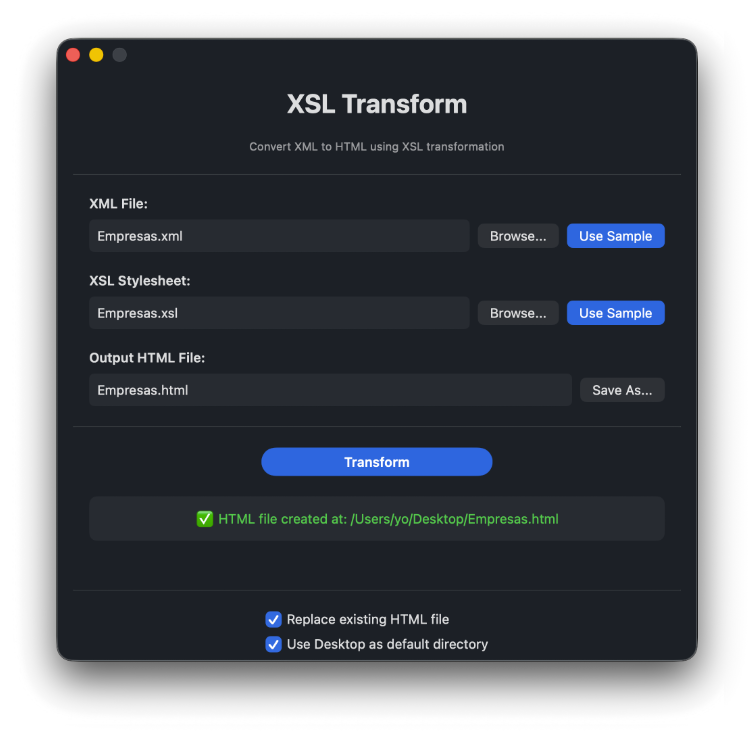
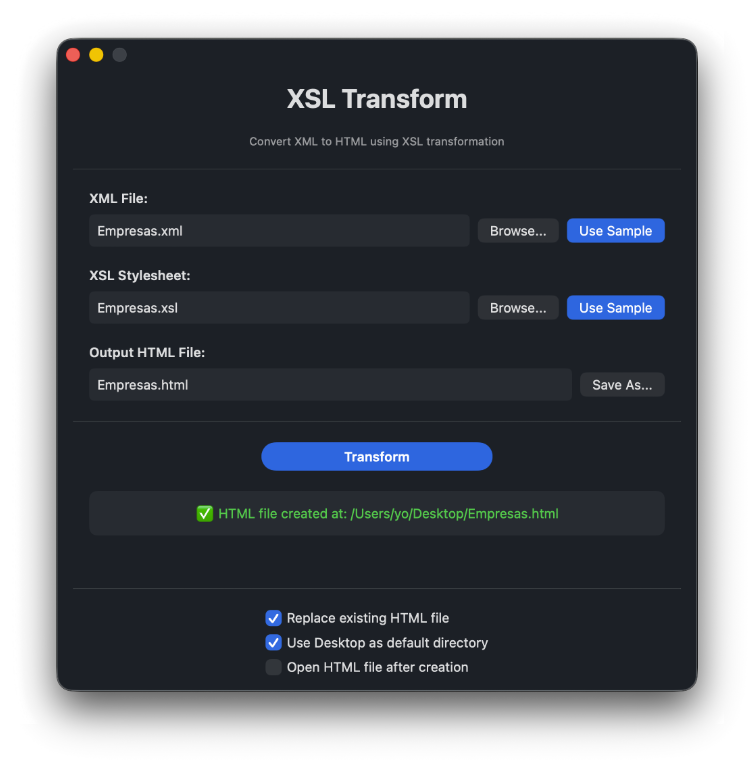
Add option to open HTML file after creation

diff --git a/XSLTransform/Views/ContentView.swift b/XSLTransform/Views/ContentView.swift
@@ -13,6 +13,7 @@ struct ContentView: View {
     @State private var transformationSucceeded: Bool = false
     @AppStorage("replaceExistingHTML") private var replaceExistingHTML: Bool = false
     @AppStorage("useDesktopAsDefault") private var useDesktopAsDefault: Bool = false
+    @AppStorage("openAfterCreation") private var openAfterCreation: Bool = true
     
     let transformer = XSLTransformer()
     
@@ -143,9 +144,8 @@ struct ContentView: View {
                 .background(transformationStatus.isEmpty ? Color.clear : Color.gray.opacity(0.1))
                 .cornerRadius(8)
                 .padding(.horizontal)
-                .opacity(transformationStatus.isEmpty ? 0 : 1)
             
-            Spacer()
+            Spacer(minLength: 12)
             
             // Footer with settings
             Divider()
@@ -163,17 +163,19 @@ struct ContentView: View {
                     }
                 
                 Toggle(NSLocalizedString("settings.desktop.default", comment: ""), isOn: $useDesktopAsDefault)
+                
+                Toggle(NSLocalizedString("settings.open.after.creation", comment: ""), isOn: $openAfterCreation)
             }
             .padding(.horizontal)
-            .padding(.bottom, 8)
+            .padding(.bottom, 20)
         }
         .frame(
             minWidth: 600,
             idealWidth: 600,
             maxWidth: 600,
-            minHeight: 550,
-            idealHeight: 550,
-            maxHeight: 550
+            minHeight: 580,
+            idealHeight: 580,
+            maxHeight: 580
         )
         .padding()
         .alert(NSLocalizedString("error.title", comment: ""), isPresented: $showError) {
@@ -280,8 +282,10 @@ struct ContentView: View {
                     transformationStatus = String(format: NSLocalizedString("status.success", comment: ""), outputFilePath)
                     transformationSucceeded = true
                     
-                    // Open the generated HTML file
-                    NSWorkspace.shared.open(URL(fileURLWithPath: outputFilePath))
+                    // Open the generated HTML file only if the setting is enabled
+                    if openAfterCreation {
+                        NSWorkspace.shared.open(URL(fileURLWithPath: outputFilePath))
+                    }
                 }
             } catch {
                 DispatchQueue.main.async {
